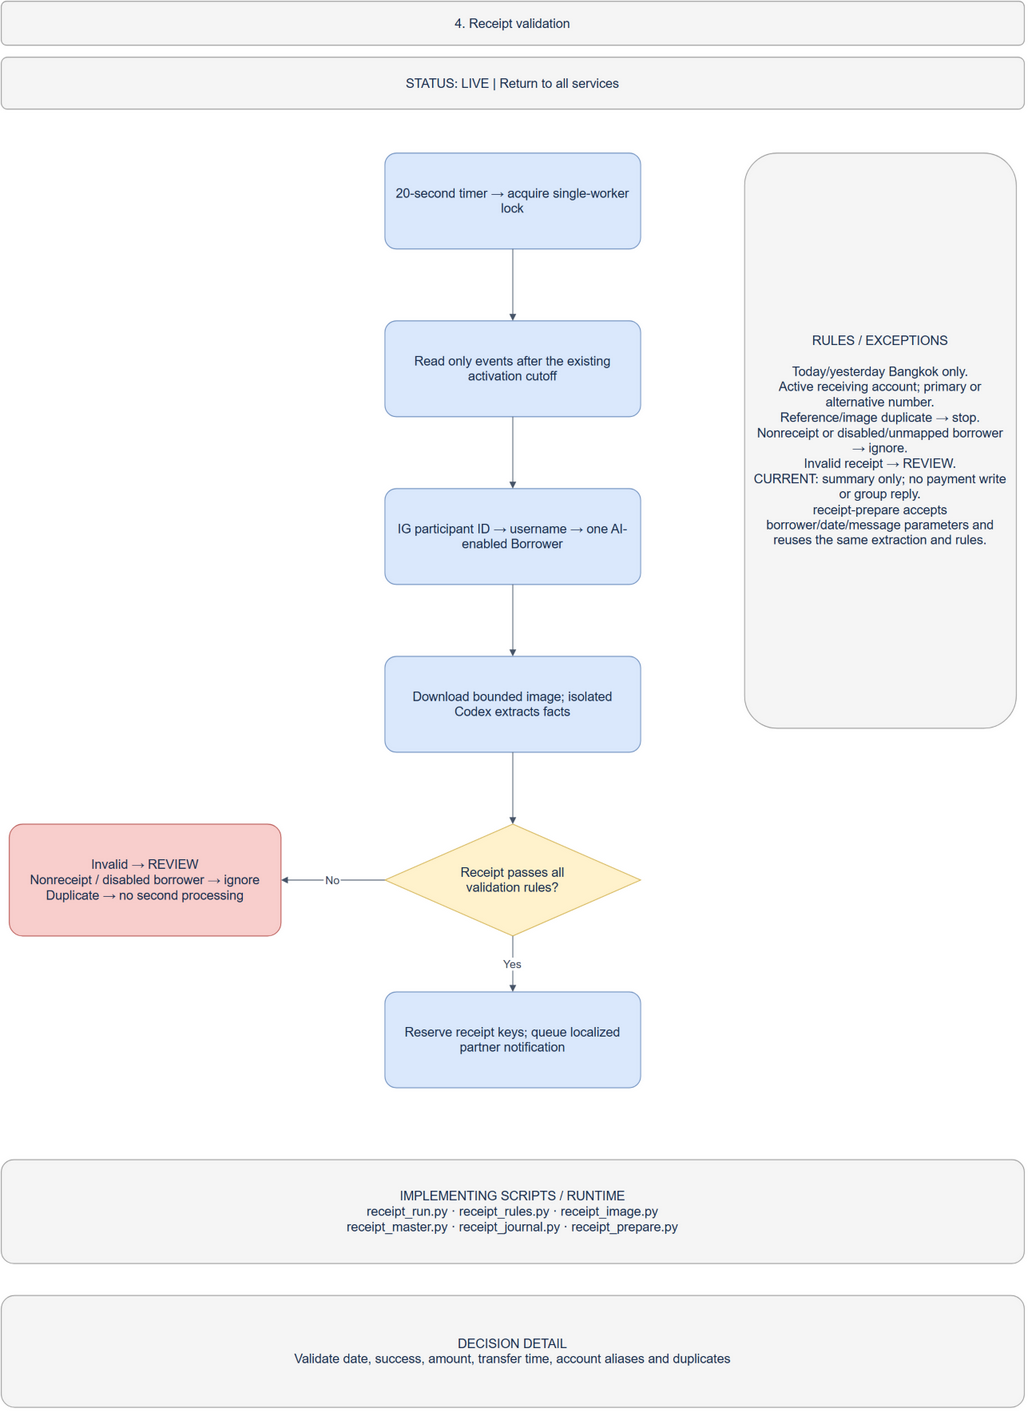
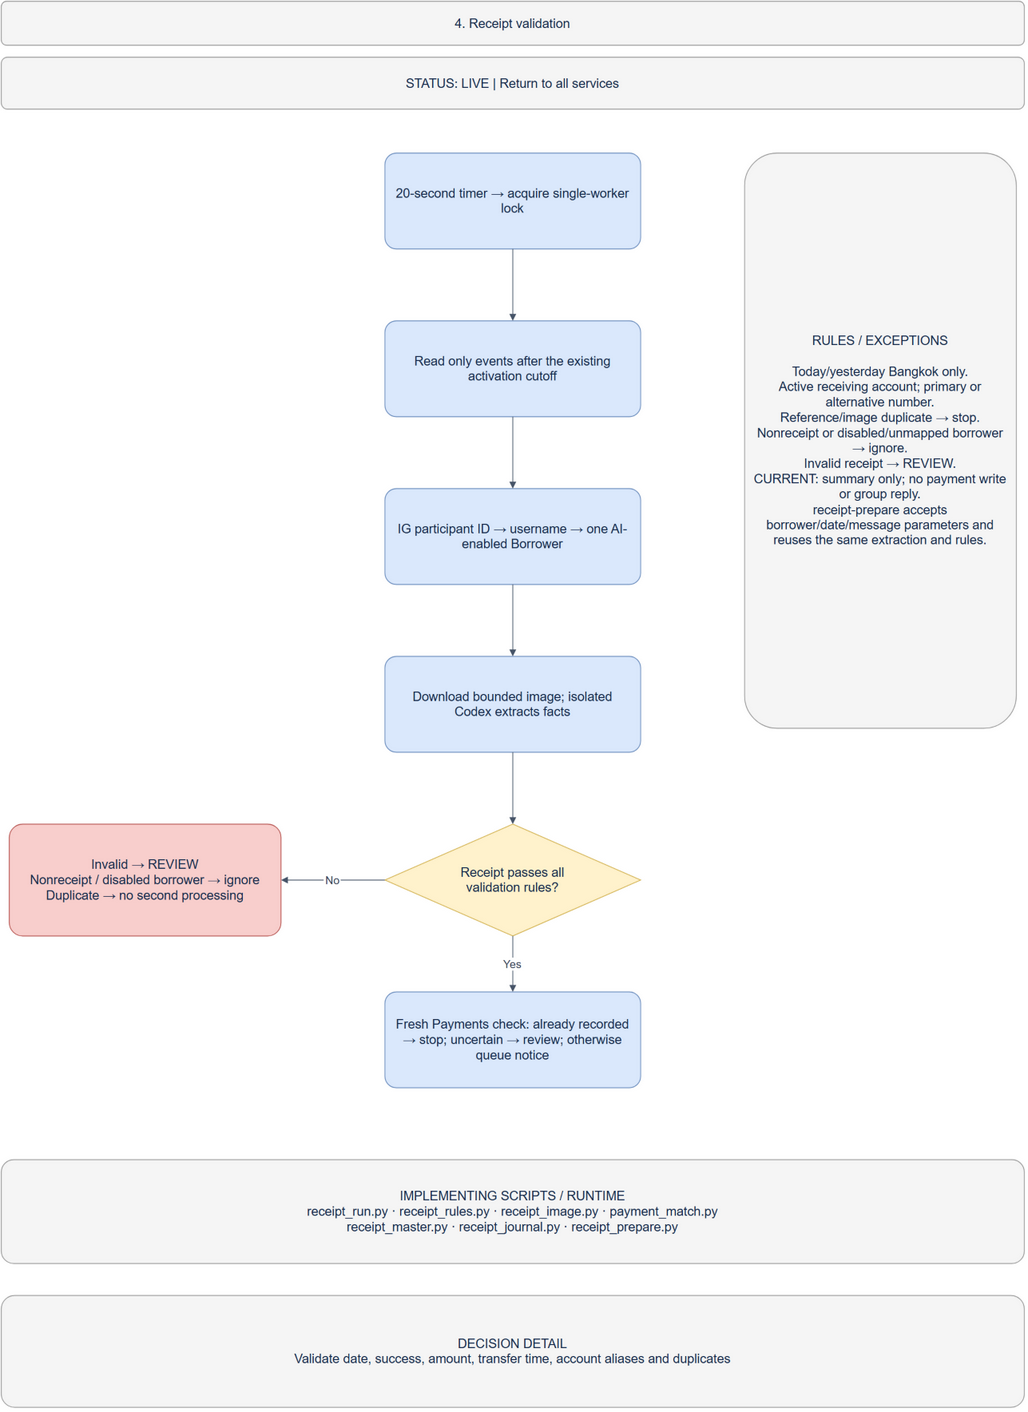
Record verified manual-payment guard and receipt process diagram

Changed region(s): [[0.3113, 0.8414, 0.6848, 0.8725], [0.3735, 0.7167, 0.6226, 0.7479]]

diff --git a/scripts/generate-business-process.py b/scripts/generate-business-process.py
@@ -46,9 +46,9 @@ pages=[
  'IG participant ID → username → one AI-enabled Borrower',
  'Download bounded image; isolated Codex extracts facts',
  'Validate date, success, amount, transfer time, account aliases and duplicates',
- 'Reserve receipt keys; queue localized partner notification'],
+ 'Fresh Payments check: already recorded → stop; uncertain → review; otherwise queue notice'],
  'Today/yesterday Bangkok only.\nActive receiving account; primary or alternative number.\nReference/image duplicate → stop.\nNonreceipt or disabled/unmapped borrower → ignore.\nInvalid receipt → REVIEW.\nCURRENT: summary only; no payment write or group reply.\nreceipt-prepare accepts borrower/date/message parameters and reuses the same extraction and rules.',
- 'receipt_run.py · receipt_rules.py · receipt_image.py\nreceipt_master.py · receipt_journal.py · receipt_prepare.py'),
+ 'receipt_run.py · receipt_rules.py · receipt_image.py · payment_match.py\nreceipt_master.py · receipt_journal.py · receipt_prepare.py'),
 ('posting','Payment posting','PENDING',[
  'Input: validated receipt from the shared workflow',
  'Re-read borrower, loan, charges and existing payments',

diff --git a/Change Logs/CHANGE_NOTES_MANUAL_PAYMENT_GUARD_2026-09-21.md b/Change Logs/CHANGE_NOTES_MANUAL_PAYMENT_GUARD_2026-09-21.md
@@ -7,3 +7,5 @@ Added `payment_match.py`: fresh SELECT against production Payments after extract
 Confirmed existing schema from V1/V23: Status, Ref Borrower, Amount Received, Payment Date, Created At, Ref Received By Cash Account and Bank Reference. Payment time is compared to minute precision; manual entry time differences are not guessed. Matching currently suppresses new summary delivery. It cannot retract already accepted messages or provide atomic exclusion against a simultaneous manual financial write; future posting must recheck and reconcile at the write boundary.
 
 Local tests: 73, with two platform skips. New tests cover manual entries without bank references, exact minute, alternative entry time, account mismatch, in-progress/error status, multiple matches, unrelated payments and conflicting references. Deployment checks recorded below.
+
+Deployed implementation `24676e9efbb55c7cbc567bce2987a775e7b34670`; all 73 Debian tests passed. Live SQL verification caught a reserved alias syntax error, corrected by quoting the alias. The final installed guard passed a read-only check using existing Posted payment facts with a deliberately nonmatching reference (`PAYMENT_ALREADY_RECORDED`), plus a synthetic no-match probe. No payment or notification was created by these checks. Initial pre-change backup: `/var/lib/mw-integration-agent/rollback/reviewed-20260921T120015Z`; final deployment backup: `/var/lib/mw-integration-agent/rollback/reviewed-20260921T120135Z`. Both journal backups were integrity checked. Receipt diagram page 04 updated and visually checked.
